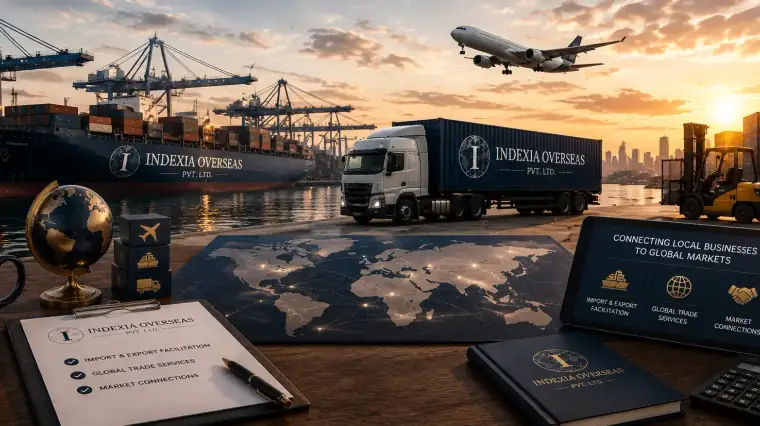
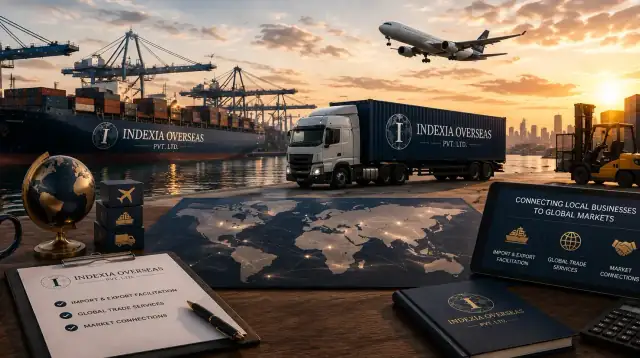
ok

diff --git a/src/components/banners/hero/heroData.ts b/src/components/banners/hero/heroData.ts
@@ -1,5 +1,5 @@
 import type { HeroPanel } from "../../cards/HeroGalleryThumb";
-import { getCompanyImage, getCompanyThumbImage } from "../../../data/companyImages";
+import { getCompanyImage, getCompanyMobileImage, getCompanyThumbImage } from "../../../data/companyImages";
 import { companies } from "../../../data/companies";
 import { colors } from "../../../lib/theme";
 
@@ -15,6 +15,7 @@ export const makePanels = (t: (key: string) => string): HeroPanel[] => [
     heading: t("hero.p0.heading"),
     sub: t("hero.p0.sub"),
     image: getCompanyImage("group"),
+    mobileImage: getCompanyMobileImage("group"),
     thumbImage: getCompanyThumbImage("group"),
     color: COLOR_BY_SLUG.group,
   },
@@ -24,6 +25,7 @@ export const makePanels = (t: (key: string) => string): HeroPanel[] => [
     heading: t("hero.p1.heading"),
     sub: t("hero.p1.sub"),
     image: getCompanyImage("finance"),
+    mobileImage: getCompanyMobileImage("finance"),
     thumbImage: getCompanyThumbImage("finance"),
     color: COLOR_BY_SLUG.finance,
   },
@@ -33,6 +35,7 @@ export const makePanels = (t: (key: string) => string): HeroPanel[] => [
     heading: t("hero.p2.heading"),
     sub: t("hero.p2.sub"),
     image: getCompanyImage("finserve"),
+    mobileImage: getCompanyMobileImage("finserve"),
     thumbImage: getCompanyThumbImage("finserve"),
     color: COLOR_BY_SLUG.finserve,
   },
@@ -42,6 +45,7 @@ export const makePanels = (t: (key: string) => string): HeroPanel[] => [
     heading: t("hero.p3.heading"),
     sub: t("hero.p3.sub"),
     image: getCompanyImage("overseas"),
+    mobileImage: getCompanyMobileImage("overseas"),
     thumbImage: getCompanyThumbImage("overseas"),
     color: COLOR_BY_SLUG.overseas,
   },
@@ -51,6 +55,7 @@ export const makePanels = (t: (key: string) => string): HeroPanel[] => [
     heading: t("hero.p4.heading"),
     sub: t("hero.p4.sub"),
     image: getCompanyImage("agro-bio"),
+    mobileImage: getCompanyMobileImage("agro-bio"),
     thumbImage: getCompanyThumbImage("agro-bio"),
     color: COLOR_BY_SLUG["agro-bio"],
   },
@@ -60,6 +65,7 @@ export const makePanels = (t: (key: string) => string): HeroPanel[] => [
     heading: t("hero.p5.heading"),
     sub: t("hero.p5.sub"),
     image: getCompanyImage("securities"),
+    mobileImage: getCompanyMobileImage("securities"),
     thumbImage: getCompanyThumbImage("securities"),
     color: COLOR_BY_SLUG.securities,
   },
@@ -69,6 +75,7 @@ export const makePanels = (t: (key: string) => string): HeroPanel[] => [
     heading: t("hero.p6.heading"),
     sub: t("hero.p6.sub"),
     image: getCompanyImage("warehouse"),
+    mobileImage: getCompanyMobileImage("warehouse"),
     thumbImage: getCompanyThumbImage("warehouse"),
     color: COLOR_BY_SLUG.warehouse,
   },
@@ -78,6 +85,7 @@ export const makePanels = (t: (key: string) => string): HeroPanel[] => [
     heading: t("hero.p7.heading"),
     sub: t("hero.p7.sub"),
     image: getCompanyImage("advertising"),
+    mobileImage: getCompanyMobileImage("advertising"),
     thumbImage: getCompanyThumbImage("advertising"),
     color: COLOR_BY_SLUG.advertising,
   },
@@ -87,6 +95,7 @@ export const makePanels = (t: (key: string) => string): HeroPanel[] => [
     heading: t("hero.p8.heading"),
     sub: t("hero.p8.sub"),
     image: getCompanyImage("foundation"),
+    mobileImage: getCompanyMobileImage("foundation"),
     thumbImage: getCompanyThumbImage("foundation"),
     color: COLOR_BY_SLUG.foundation,
   },

diff --git a/src/data/companyImages.ts b/src/data/companyImages.ts
@@ -7,6 +7,15 @@ import agroImg from "../assets/company-img/IndexiaAgroBioFertilizers.webp";
 import warehouseImg from "../assets/company-img/IndexiaWarehouse.webp";
 import foundationImg from "../assets/company-img/IndexiaFoundation.webp";
 import advertisingImg from "../assets/company-img/IndexiaAdvertising.webp";
+import groupMobile from "../assets/company-img/mobile/IndexiaGroup-mobile.webp";
+import financeMobile from "../assets/company-img/mobile/IndexiaFinance-mobile.webp";
+import finserveMobile from "../assets/company-img/mobile/IndexiaFinserve-mobile.webp";
+import securitiesMobile from "../assets/company-img/mobile/IndexiaSecurities-mobile.webp";
+import overseasMobile from "../assets/company-img/mobile/IndexiaOverseas-mobile.webp";
+import agroMobile from "../assets/company-img/mobile/IndexiaAgroBioFertilizers-mobile.webp";
+import warehouseMobile from "../assets/company-img/mobile/IndexiaWarehouse-mobile.webp";
+import foundationMobile from "../assets/company-img/mobile/IndexiaFoundation-mobile.webp";
+import advertisingMobile from "../assets/company-img/mobile/IndexiaAdvertising-mobile.webp";
 import groupCard from "../assets/company-img/cards/IndexiaGroup-card.webp";
 import financeCard from "../assets/company-img/cards/IndexiaFinance-card.webp";
 import finserveCard from "../assets/company-img/cards/IndexiaFinserve-card.webp";
@@ -38,6 +47,18 @@ export const companyImages: Record<string, string> = {
   advertising: advertisingImg,
 };
 
+export const companyMobileImages: Record<string, string> = {
+  group: groupMobile,
+  finance: financeMobile,
+  finserve: finserveMobile,
+  securities: securitiesMobile,
+  overseas: overseasMobile,
+  "agro-bio": agroMobile,
+  warehouse: warehouseMobile,
+  foundation: foundationMobile,
+  advertising: advertisingMobile,
+};
+
 export const companyCardImages: Record<string, string> = {
   group: groupCard,
   finance: financeCard,
@@ -63,5 +84,6 @@ export const companyThumbImages: Record<string, string> = {
 };
 
 export const getCompanyImage = (slug: string): string => companyImages[slug] ?? companyImages.group;
+export const getCompanyMobileImage = (slug: string): string => companyMobileImages[slug] ?? companyMobileImages.group;
 export const getCompanyCardImage = (slug: string): string => companyCardImages[slug] ?? companyCardImages.group;
 export const getCompanyThumbImage = (slug: string): string => companyThumbImages[slug] ?? companyThumbImages.group;

diff --git a/src/components/banners/hero/HeroBackground.tsx b/src/components/banners/hero/HeroBackground.tsx
@@ -13,6 +13,7 @@ export type MorphRect = {
 
 type HeroBackgroundProps = {
   bgImage: string;
+  bgMobileImage: string;
   morph: MorphRect | null;
   panels: HeroPanel[];
   prefersReducedMotion: boolean | null;
@@ -24,11 +25,13 @@ const MORPH_MS = { calm: 1300, thumb: 800 };
 const MorphLayer = ({
   morph,
   image,
+  mobileImage,
   reducedMotion,
   onComplete,
 }: {
   morph: MorphRect;
   image: string;
+  mobileImage: string;
   reducedMotion: boolean;
   onComplete: (id: number) => void;
 }) => {
@@ -78,15 +81,19 @@ const MorphLayer = ({
     >
       <img
         src={image}
+        srcSet={`${mobileImage} 900w, ${image} 1900w`}
+        sizes="100vw"
         alt=""
         aria-hidden="true"
+        width={1408}
+        height={768}
         className={`w-full h-full object-cover object-center${morph.calm ? "" : " morph-zoom"}`}
       />
     </div>
   );
 };
 
-const HeroBackground = ({ bgImage, morph, panels, prefersReducedMotion, onMorphComplete }: HeroBackgroundProps) => {
+const HeroBackground = ({ bgImage, bgMobileImage, morph, panels, prefersReducedMotion, onMorphComplete }: HeroBackgroundProps) => {
   const reducedMotion = !!prefersReducedMotion;
 
   return (
@@ -94,6 +101,8 @@ const HeroBackground = ({ bgImage, morph, panels, prefersReducedMotion, onMorphC
       <img
         key={bgImage}
         src={bgImage}
+        srcSet={`${bgMobileImage} 900w, ${bgImage} 1900w`}
+        sizes="100vw"
         alt=""
         aria-hidden="true"
         width={1408}
@@ -118,6 +127,7 @@ const HeroBackground = ({ bgImage, morph, panels, prefersReducedMotion, onMorphC
           key={morph.id}
           morph={morph}
           image={panels.find((p) => p.id === morph.id)?.image ?? panels[0].image}
+          mobileImage={panels.find((p) => p.id === morph.id)?.mobileImage ?? panels[0].mobileImage}
           reducedMotion={reducedMotion}
           onComplete={onMorphComplete}
         />

diff --git a/src/components/cards/HeroGalleryThumb.tsx b/src/components/cards/HeroGalleryThumb.tsx
@@ -4,6 +4,7 @@ export type HeroPanel = {
   heading: string;
   sub: string;
   image: string;
+  mobileImage: string;
   thumbImage: string;
   color: string;
 };
@@ -33,8 +34,8 @@ const HeroGalleryThumb = ({
     >
       <img
         src={panel.thumbImage}
-        alt={isOriginal ? panel.tag : ""}
-        aria-hidden={isOriginal ? undefined : "true"}
+        alt=""
+        aria-hidden="true"
         width={220}
         height={124}
         loading={isOriginal && isActive ? "eager" : "lazy"}

diff --git a/src/components/banners/HomeHero.tsx b/src/components/banners/HomeHero.tsx
@@ -129,6 +129,7 @@ const Banner = () => {
       <div className="relative flex min-h-svh flex-col sm:min-h-screen">
         <HeroBackground
           bgImage={bgPanel.image}
+          bgMobileImage={bgPanel.mobileImage}
           morph={morph}
           panels={panels}
           prefersReducedMotion={prefersReducedMotion}

diff --git a/README.md b/README.md
@@ -1,0 +1,115 @@
+# Indexia Group Website
+
+Indexia Group Website is a React, TypeScript, Vite, and Tailwind CSS site for a diversified business group spanning finance, finserve, securities, overseas export, agro bio fertilizers, warehousing, advertising, foundation work, careers, news, research, security guidance, and contact enquiries.
+
+## What Was Completed
+
+### Website Design And UX
+
+- Improved the overall frontend design with a more polished, modular structure.
+- Reused shared components for imagery, reveal animations, media frames, cards, hero bands, and impact sections.
+- Added subtle image zoom interactions for contact office cards and enquiry images.
+- Reused the full-bleed impact band treatment across supporting pages such as news, careers, global research, and security tips.
+- Shared the infinite marquee styling utility between the home hero marquee and the company services ribbon.
+- Reduced repeated UI logic by centralizing image handling and media framing.
+
+### Image Mapping And Asset Cleanup
+
+- Mapped all reusable images through `src/data/siteImages.ts`.
+- Moved contact images into `src/assets/contact-img`.
+- Added `customercare.webp` above the contact enquiry form.
+- Removed image prompt fields and prompt display logic from the codebase.
+- Updated `docs/IMAGES.md` to document current image slots and sources.
+- Converted heavy PNG section images to WebP.
+- Added card-sized company images in `src/assets/company-img/cards`.
+- Added lightweight hero gallery thumbnails in `src/assets/company-img/thumbs`.
+- Recompressed selected assets based on Lighthouse image delivery findings.
+
+### SEO, Indexing, And Agent Accessibility
+
+- Updated SEO descriptions for Home and Businesses to match the updated headings.
+- Updated `public/sitemap.xml` and included all company routes.
+- Kept `public/robots.txt` valid and crawl-friendly while disallowing `/api/`.
+- Added `public/llms.txt` with Markdown links for AI-agent readability.
+- Fixed the invalid robots directive that Lighthouse reported.
+
+### Contact Page Work
+
+- Re-cropped and normalized office card images around a consistent landscape grid.
+- Restored `customercare.webp` to its original size after testing a smaller version.
+- Added `MediaFrame` for consistent reusable image framing.
+- Placed the customer-care image at the top of the contact form area.
+
+### Code Cleanup
+
+- Removed unused prompt data and placeholder prompt documentation.
+- Removed or ignored generated files such as `dist`, reports, screenshots, and temporary files.
+- Updated `.gitignore` for build output, audit reports, screenshots, temp files, and Vercel metadata.
+- Kept generated brochure PDF diffs out of the working changes after builds.
+
+## Performance Optimization
+
+Performance work was guided by Lighthouse audit results.
+
+- Lazy-loaded non-English i18n locale files so visitors do not download every translation up front.
+- Reduced the main app chunk from roughly 1 MB to about 63 KB before compression.
+- Converted large PNGs to WebP, reducing several files from around 1.8-2.4 MB to about 70-185 KB.
+- Replaced card usages of full hero images with smaller card-specific WebP assets.
+- Reduced hero gallery thumbnails from roughly 12-23 KB to about 4-7 KB.
+- Added explicit image dimensions and loading hints for hero gallery images.
+- Replaced the YouTube iframe with a click-to-load facade so third-party scripts load only when needed.
+- Removed Google Fonts from the critical render path and switched to local/system font stacks.
+- Reduced forced reflow risk by removing mouse-tracked layout reads from interactive image/card effects.
+- Kept Brotli and gzip compression enabled through Vite build configuration.
+
+Note: Some Lighthouse JavaScript warnings came from browser extensions, not the website bundle. Run Lighthouse in Incognito with extensions disabled for clean results.
+
+### Mobile Lighthouse Audit
+
+The mobile audit was extracted from `MOBILE.docx` and treated as reference material. The report was captured on an emulated Moto G Power using Slow 4G throttling.
+
+Actionable mobile issues addressed:
+
+- Created mobile hero image variants in `src/assets/company-img/mobile`.
+- Added responsive `srcSet` and `sizes` support to the home hero background so mobile devices can load the smaller 900px hero image instead of the desktop source.
+- Reduced card image dimensions and compression further for mobile/card display.
+- Reduced the Indexia Group logo asset from the original 160px source to a smaller optimized WebP.
+- Kept hero gallery thumbnail assets lightweight for mobile scrolling.
+- Made hero gallery thumbnail images decorative because the surrounding buttons already provide accessible labels, avoiding repeated screen-reader text.
+
+Mobile audit findings noted but not repo-caused:
+
+- Chrome extension scripts contributed to unused JavaScript, minification, long-task, forced-reflow, and third-party warnings.
+- The render-blocking CSS request is the main production stylesheet generated by Vite; it is already compressed and small.
+- Server/protocol recommendations such as modern HTTP, cache lifetime, and document latency depend on hosting/CDN configuration.
+
+## Main Files
+
+- `src/data/siteImages.ts` - shared page image registry.
+- `src/data/companyImages.ts` - company hero, card, and thumbnail image registry.
+- `src/components/common/ImageSlot.tsx` - reusable mapped image slot with fallback.
+- `src/components/common/MediaFrame.tsx` - shared zoom/framing wrapper.
+- `docs/IMAGES.md` - image folder and slot documentation.
+- `public/sitemap.xml` - crawlable route list.
+- `public/robots.txt` - crawler rules.
+- `public/llms.txt` - AI-agent readable site summary and links.
+
+## Commands
+
+```bash
+npm install
+npm run dev
+npm run lint
+npm run build
+npm run preview
+```
+
+## Build Notes
+
+The production build runs TypeScript, Vite, and brochure PDF generation:
+
+```bash
+npm run build
+```
+
+The build may regenerate brochure PDFs in `public/brochures`. Restore those files if no brochure content changes are intended.
